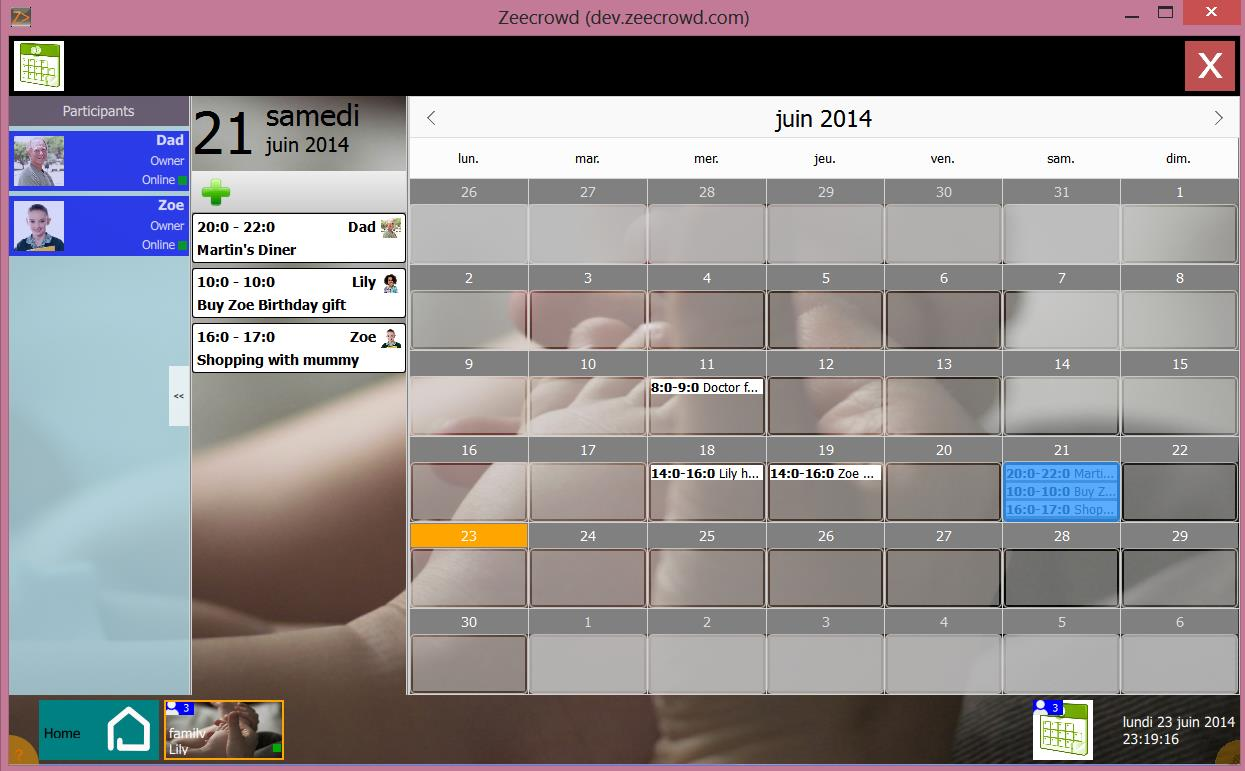
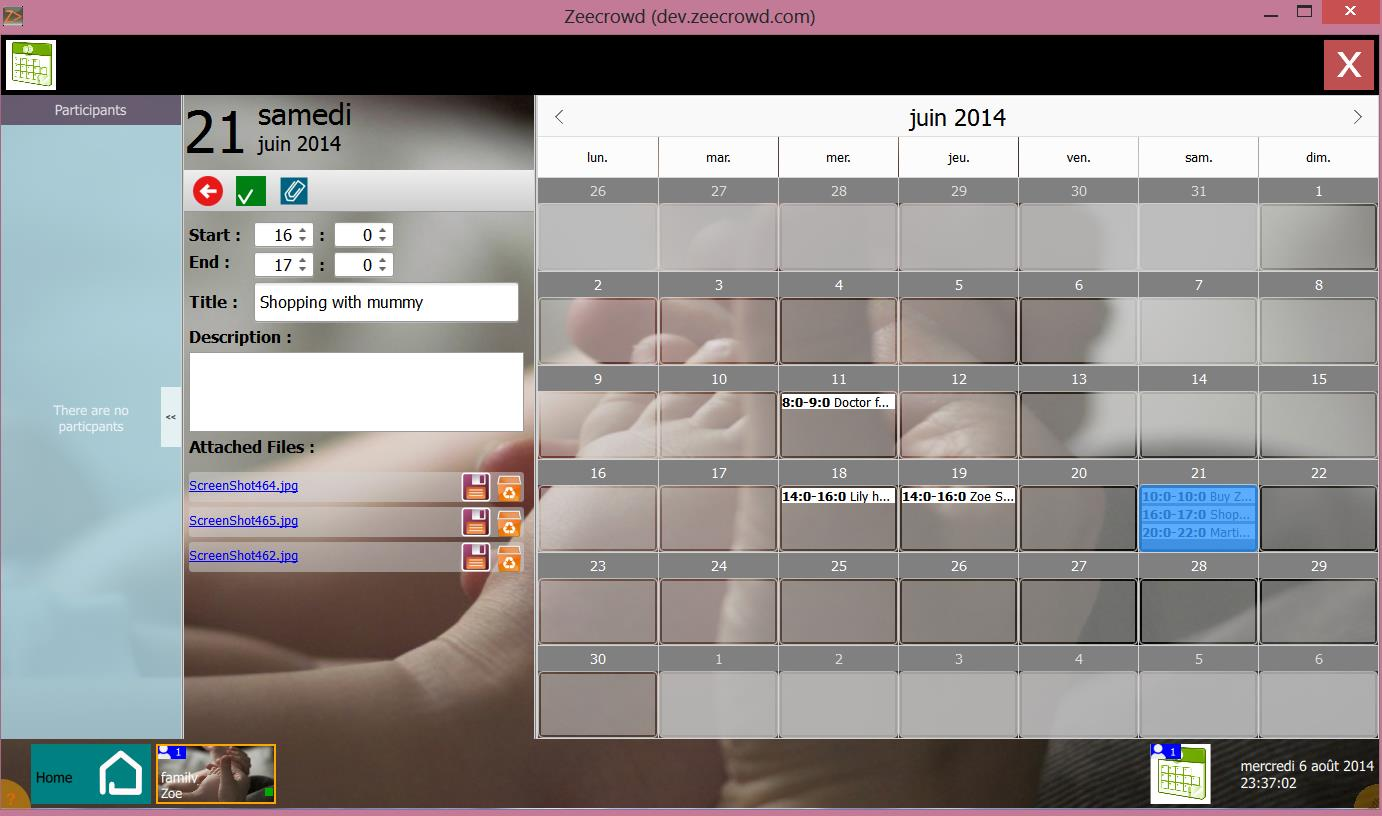
Attached Files

diff --git a/index.html b/index.html
@@ -39,6 +39,9 @@
           <h3>
         		Ajout d'un evenement dans le calendrier : Horaire, Titre , Description
           </h3>
+          <h3>
+        		Ajout de fichiers associes a un evenement du calendrier
+          </h3>
          <h3>
 			Visualisation de qui a cree l'evenement
 	</h3>
